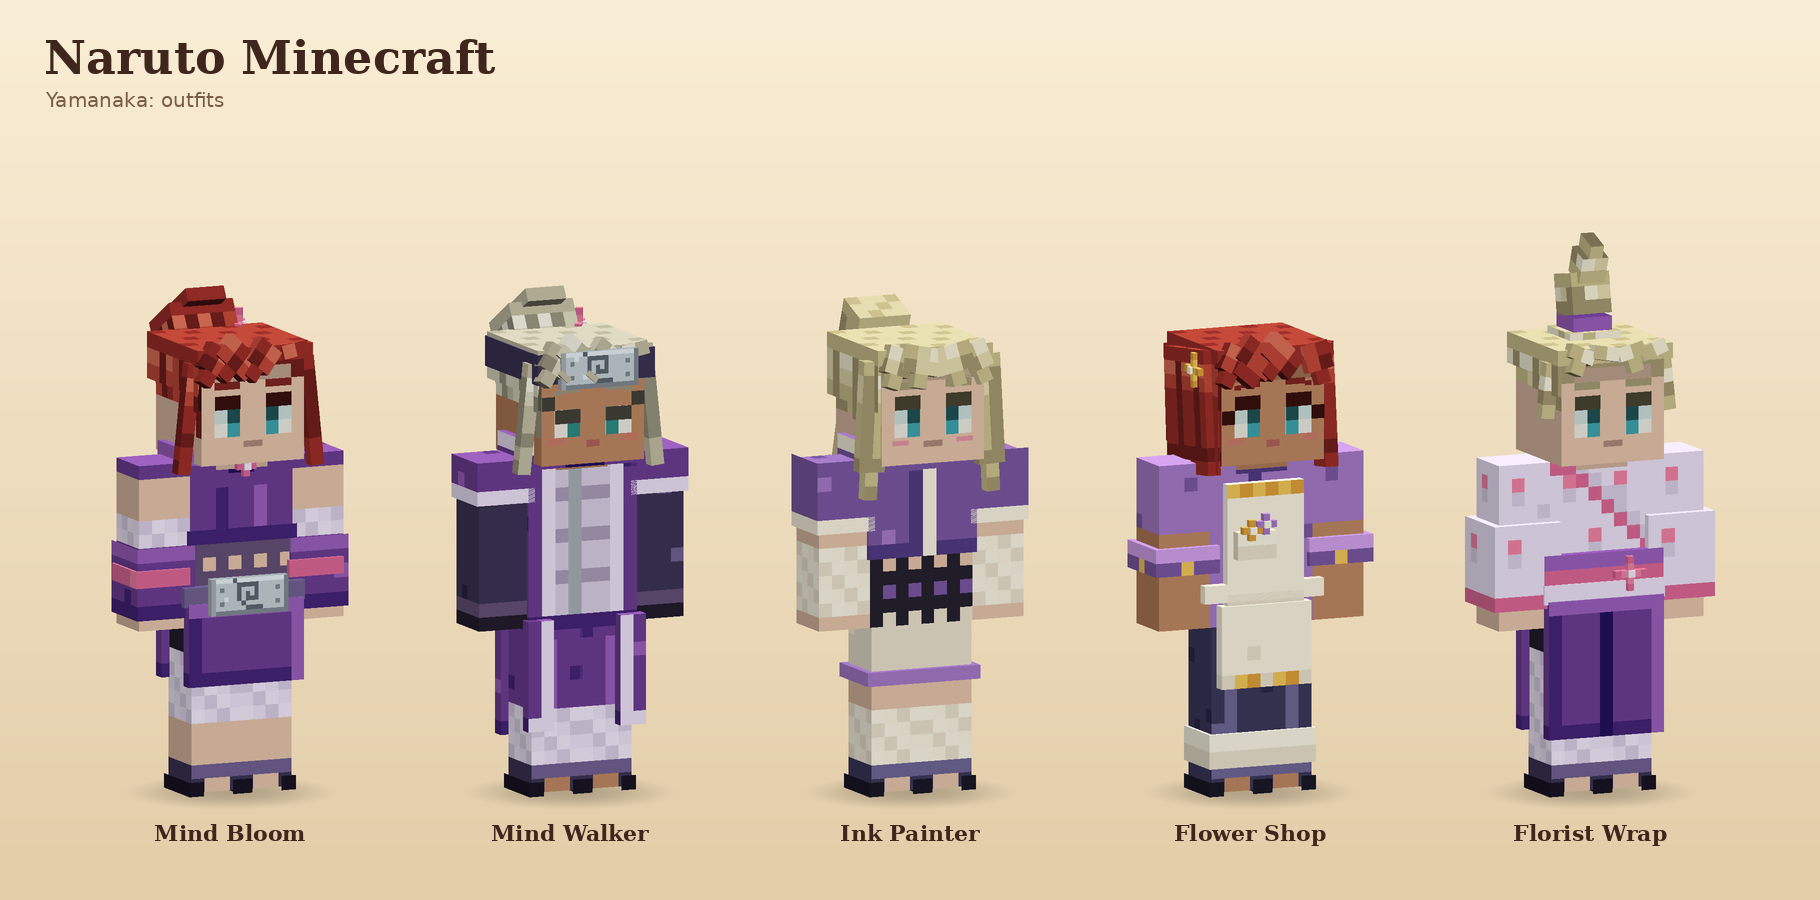
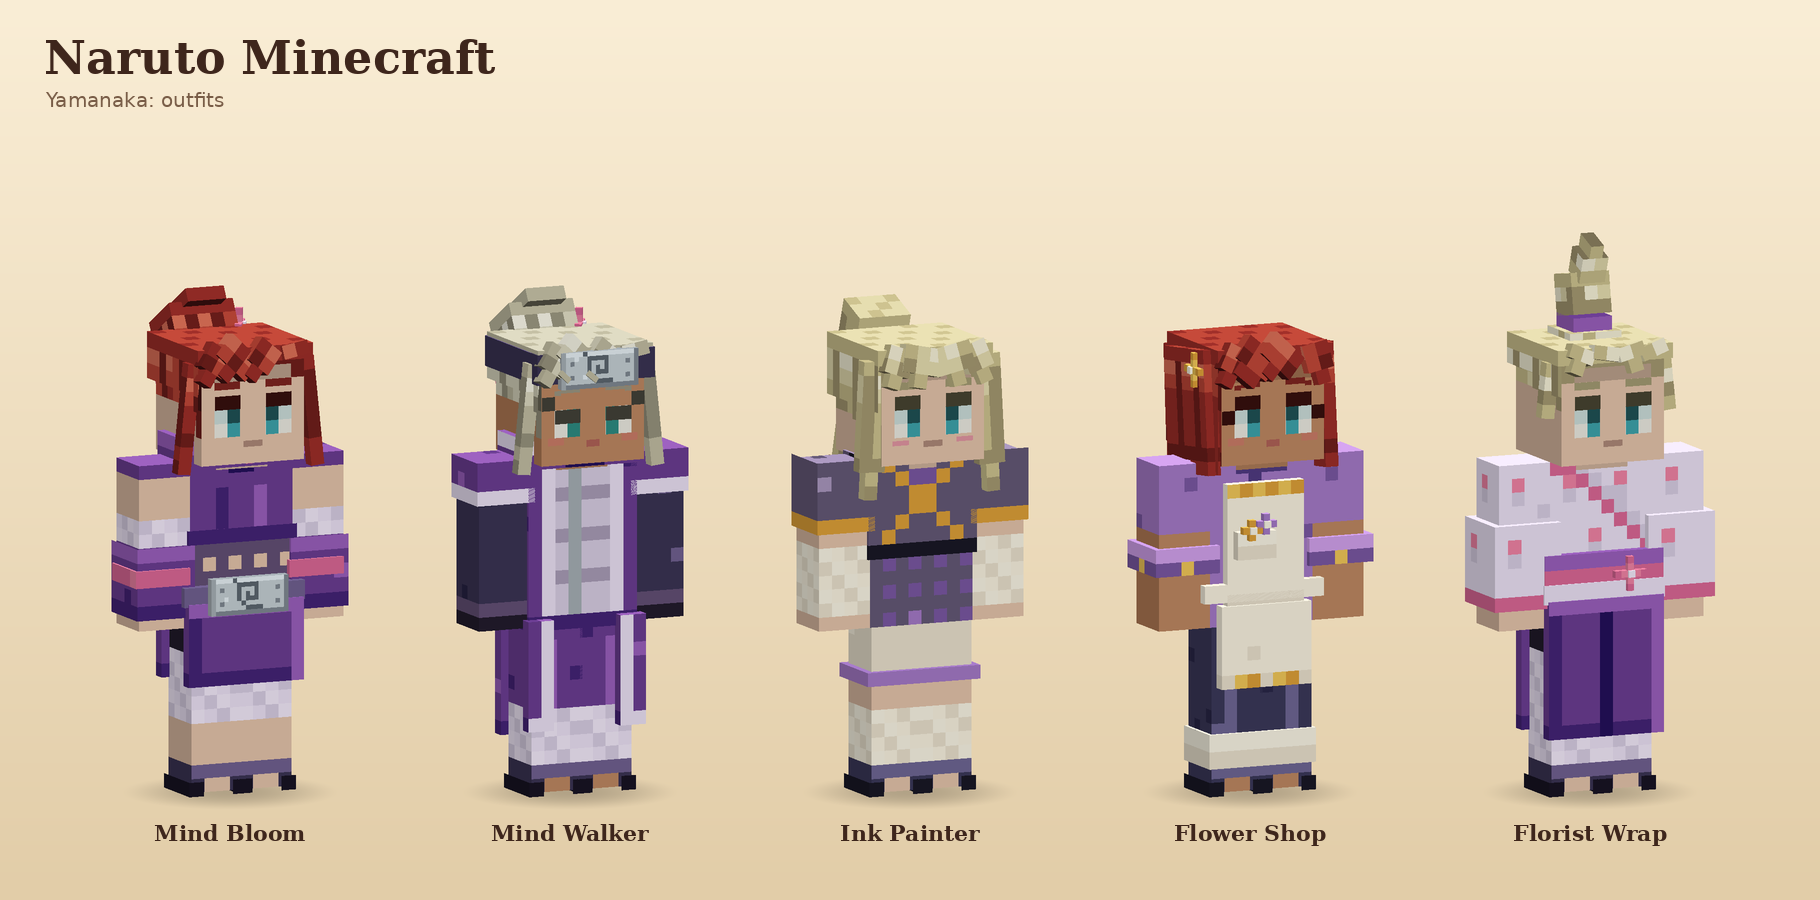
Yamanaka: match references: Ino's high collar, Inojin's black strapped jacket and shoulder-length hair

Changed region(s): [[0.4308, 0.4667, 0.5846, 0.7156], [0.1231, 0.4978, 0.1538, 0.5289]]

diff --git a/tools/wardrobe/tops/t703_ink_crop_jacket.py b/tools/wardrobe/tops/t703_ink_crop_jacket.py
@@ -1,6 +1,6 @@
-"""Ink Crop Jacket: a short purple jacket with a stand collar and half sleeves, cropped above a
-chain-mesh shirt, bandaged forearms and an ink scroll slung across the back: the painter's kit."""
-from kit import collar
+"""Ink Crop Jacket: Inojin's kit, a short black collarless jacket with half sleeves over a purple
+shirt and chain mesh, accent straps crossing the chest, bandaged forearms and an ink scroll slung
+across the back."""
 from kit_shinobi import mesh
 from kit_yamanaka import wrapped
 from paint import cap, fabric, solid, strip_fabric
@@ -8,31 +8,32 @@ from paint import cap, fabric, solid, strip_fabric
 META = {
     "name": "Ink Crop Jacket",
     "gender": "unisex",
-    "description": "Cropped purple jacket with half sleeves over a mesh shirt, bandaged forearms, ink scroll.",
+    "description": "Black collarless crop jacket with accent straps over a purple shirt and mesh, bandaged forearms, ink scroll.",
     "tags": ["shinobi", "yamanaka", "genin"],
 }
 
 
 def build(g):
     body, jacket = g.part("body"), g.part("jacket")
-    mesh(body.strip, 0, 0, body.strip.w - 1, 11, "K2")
-    mesh(body.top, 0, 0, body.top.w - 1, body.top.h - 1, "K2")
-    strip_fabric(jacket, "P", "weave", 7350, 2, 0, 6)
-    cap(jacket, "P", texture="weave", seed=7350)
-    jacket.strip.hline(0, jacket.strip.w - 1, 6, "P1")
-    jacket.front.vline(4, 0, 6, "S3"), jacket.front.vline(3, 1, 6, "P1")
+    strip_fabric(body, "P", "plain", 7349, 2)
+    fabric(body.top, "P", "plain", 7349, 3)
+    mesh(body.strip, 0, 7, body.strip.w - 1, 11, "K3")
+    strip_fabric(jacket, "K", "weave", 7350, 3, 0, 6)
+    cap(jacket, "K", texture="weave", seed=7350, base=3)
+    jacket.strip.hline(0, jacket.strip.w - 1, 6, "K1")
+    for x in (3, 4):
+        jacket.front.clear(x, 0), jacket.front.clear(x, 1)
+    for y in range(6):
+        jacket.front.set(1 + y, y, "A2"), jacket.front.set(6 - y, y, "A2")
     for face in (jacket.right, jacket.left):
-        face.vline(1, 0, 6, "P1")
+        face.vline(1, 0, 6, "K1")
     for side in ("right", "left"):
         arm, sleeve = g.part(f"{side}_arm"), g.part(f"{side}_sleeve")
-        strip_fabric(arm, "P", "weave", 7351, 2, 0, 4)
-        fabric(arm.top, "P", "weave", 7351, 3)
-        strip_fabric(sleeve, "P", "weave", 7352 + (side == "left"), 2, 0, 4)
-        sleeve.strip.hline(0, sleeve.strip.w - 1, 4, "S3")
+        strip_fabric(arm, "K", "weave", 7351, 3, 0, 4)
+        fabric(arm.top, "K", "weave", 7351, 4)
+        strip_fabric(sleeve, "K", "weave", 7352 + (side == "left"), 3, 0, 4)
+        sleeve.strip.hline(0, sleeve.strip.w - 1, 4, "A2")
         wrapped(arm.strip, 0, 6, arm.strip.w - 1, 10)
-    neck = collar(g, "collar", "P", "weave", height=2, y=-1.4)
-    for face in neck.sides:
-        face.hline(0, face.w - 1, 0, "S3")
     # The ink scroll across the back, capped in the accent, on a leather strap.
     scroll = g.piece("scroll", "TORSO", (-1, -5, -1), (2, 10, 2), pivot=(0, 5.0, 2.9), rotation=(0, 0, 60))
     solid(scroll, "S", "plain", 7354, 3)

diff --git a/tools/wardrobe/hair/h703_inojin_tail.py b/tools/wardrobe/hair/h703_inojin_tail.py
@@ -1,10 +1,10 @@
-"""Inojin Tail: short pale hair caught up in a small high tail, a long fringe swept across the brow
-to the wearer's left that stops on the eye line, and short locks over the ears."""
+"""Inojin Tail: flaxen hair to the shoulders with the top caught up in a small high tail, a long fringe swept across the brow
+to the wearer's left that stops on the eye line, and locks falling to the shoulders."""
 from anime import cel_box, lock, ring_shell, sidelocks, tie
 from paint import scalp
 
 META = {"name": "Inojin Tail", "gender": "unisex",
-        "description": "Small high tail, a long fringe swept over the left brow, short side locks."}
+        "description": "Shoulder-length hair with a small high tail, a long fringe swept over the left brow."}
 
 SWOOP = [(-3.0, ((2, 2), (1, 1)), -10), (-1.6, ((3, 2), (2, 2), (1, 1)), -56), (.2, ((3, 2), (2, 2)), -58),
          (1.9, ((2, 2), (1, 1)), -40)]
@@ -15,7 +15,9 @@ def build(g):
     ring_shell(g, 7202, side_rows=4, back_rows=6, ring_row=1)
     for i, (x, segs, rz) in enumerate(SWOOP):
         lock(g, f"swoop_{i}", (x, -8.55, -4.35), (-10, 0, rz), segs, 1, 7210 + i * 13, ring=0)
-    sidelocks(g, "frame", 5, seed=7240, x=4.4, z=-3.0, flare=6, width=2)
+    sidelocks(g, "frame", 8, seed=7240, x=4.4, z=-3.0, flare=5, width=2)
+    for side, sign in (("right", -1), ("left", 1)):
+        lock(g, f"nape_{side}", (2.4 * sign, -4.0, 4.3), (30, 0, -10 * sign), ((3, 4), (2, 2), (1, 1)), 1, 7270 + (sign > 0))
     tie(g, "tie", (0, -7.3, 4.3), (0, 0, 0), (2, 2, 2), y=-1)
     root = g.piece("tail_root", "HEAD", (-1.5, -2, 0), (3, 2, 3), pivot=(0, -7.5, 4.8), rotation=(30, 0, 0))
     cel_box(root, 7250, base=2)

diff --git a/tools/wardrobe/tops/t701_mind_bloom_crop.py b/tools/wardrobe/tops/t701_mind_bloom_crop.py
@@ -1,5 +1,5 @@
 """Mind Bloom Crop: the Yamanaka kunoichi's sleek purple top, sleeveless and cut short above a
-chain-mesh midriff, with a small stand collar, a blossom at the throat, bandaged elbows and long
+chain-mesh midriff, with a high collar, a blossom at the throat, bandaged elbows and long
 purple arm warmers from the elbow to the knuckles."""
 from kit import arm_x, collar
 from kit_shinobi import mesh
@@ -35,7 +35,7 @@ def build(g):
         sleeve.strip.hline(0, sleeve.strip.w - 1, 6, "P3"), sleeve.strip.hline(0, sleeve.strip.w - 1, 10, "P1")
         band = g.piece(f"{side}_warmer_band", bone, (arm_x(side) - .3, 5.7, -2.3), (4, 1, 4), inflate=.12)
         solid(band, "A", "plain", 7156, 2)
-    neck = collar(g, "collar", "P", "plain", height=1, y=-.9)
+    neck = collar(g, "collar", "P", "plain", height=2, y=-1.6)
     for face in neck.sides:
         face.hline(0, face.w - 1, 0, "P3")
-    flower(g, "brooch", (0, .4, -2.75), bone="TORSO")
+    flower(g, "brooch", (0, -.6, -3.2), bone="TORSO")
